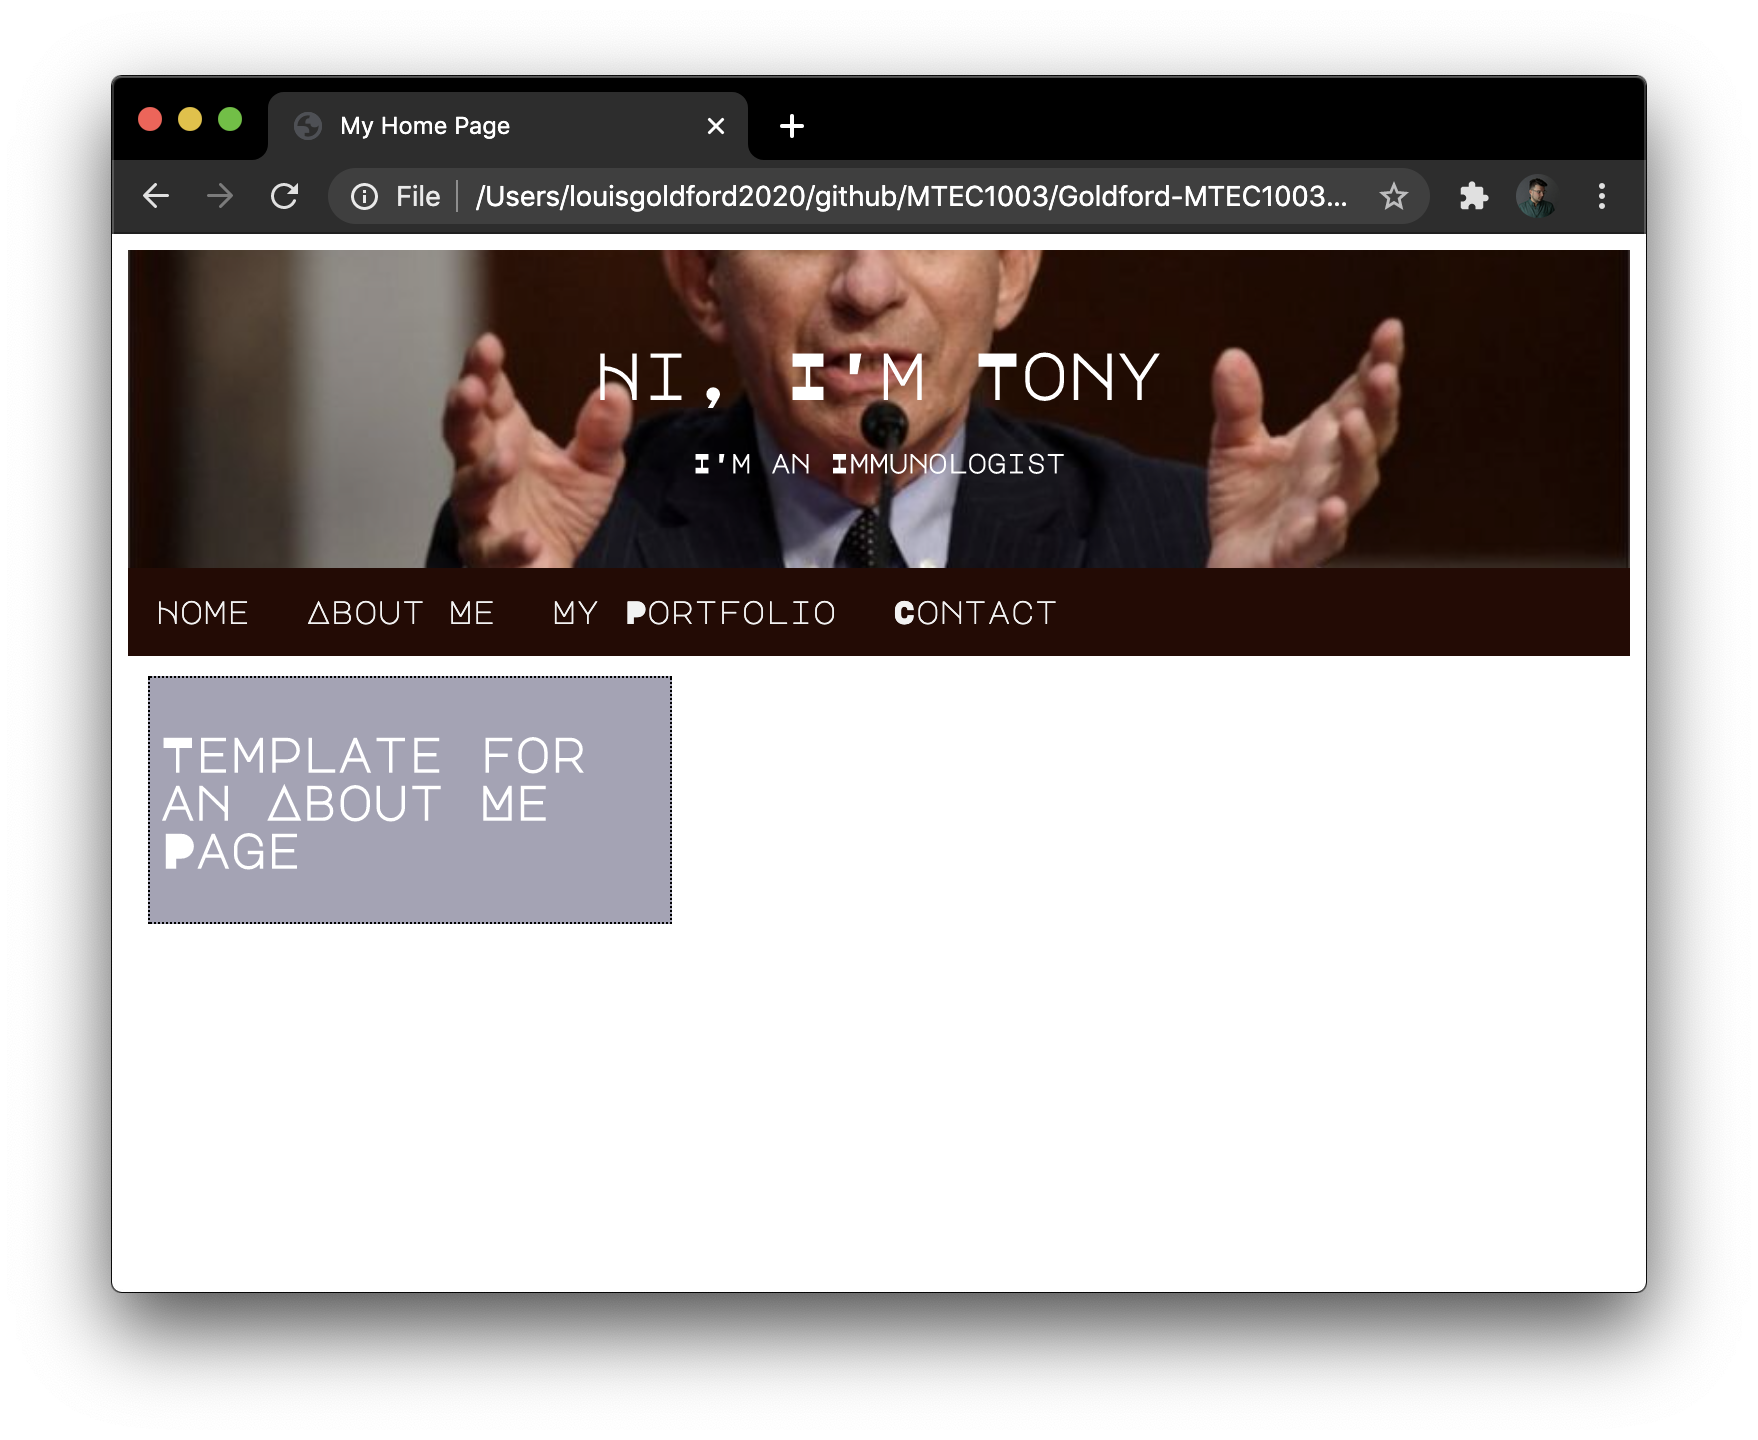
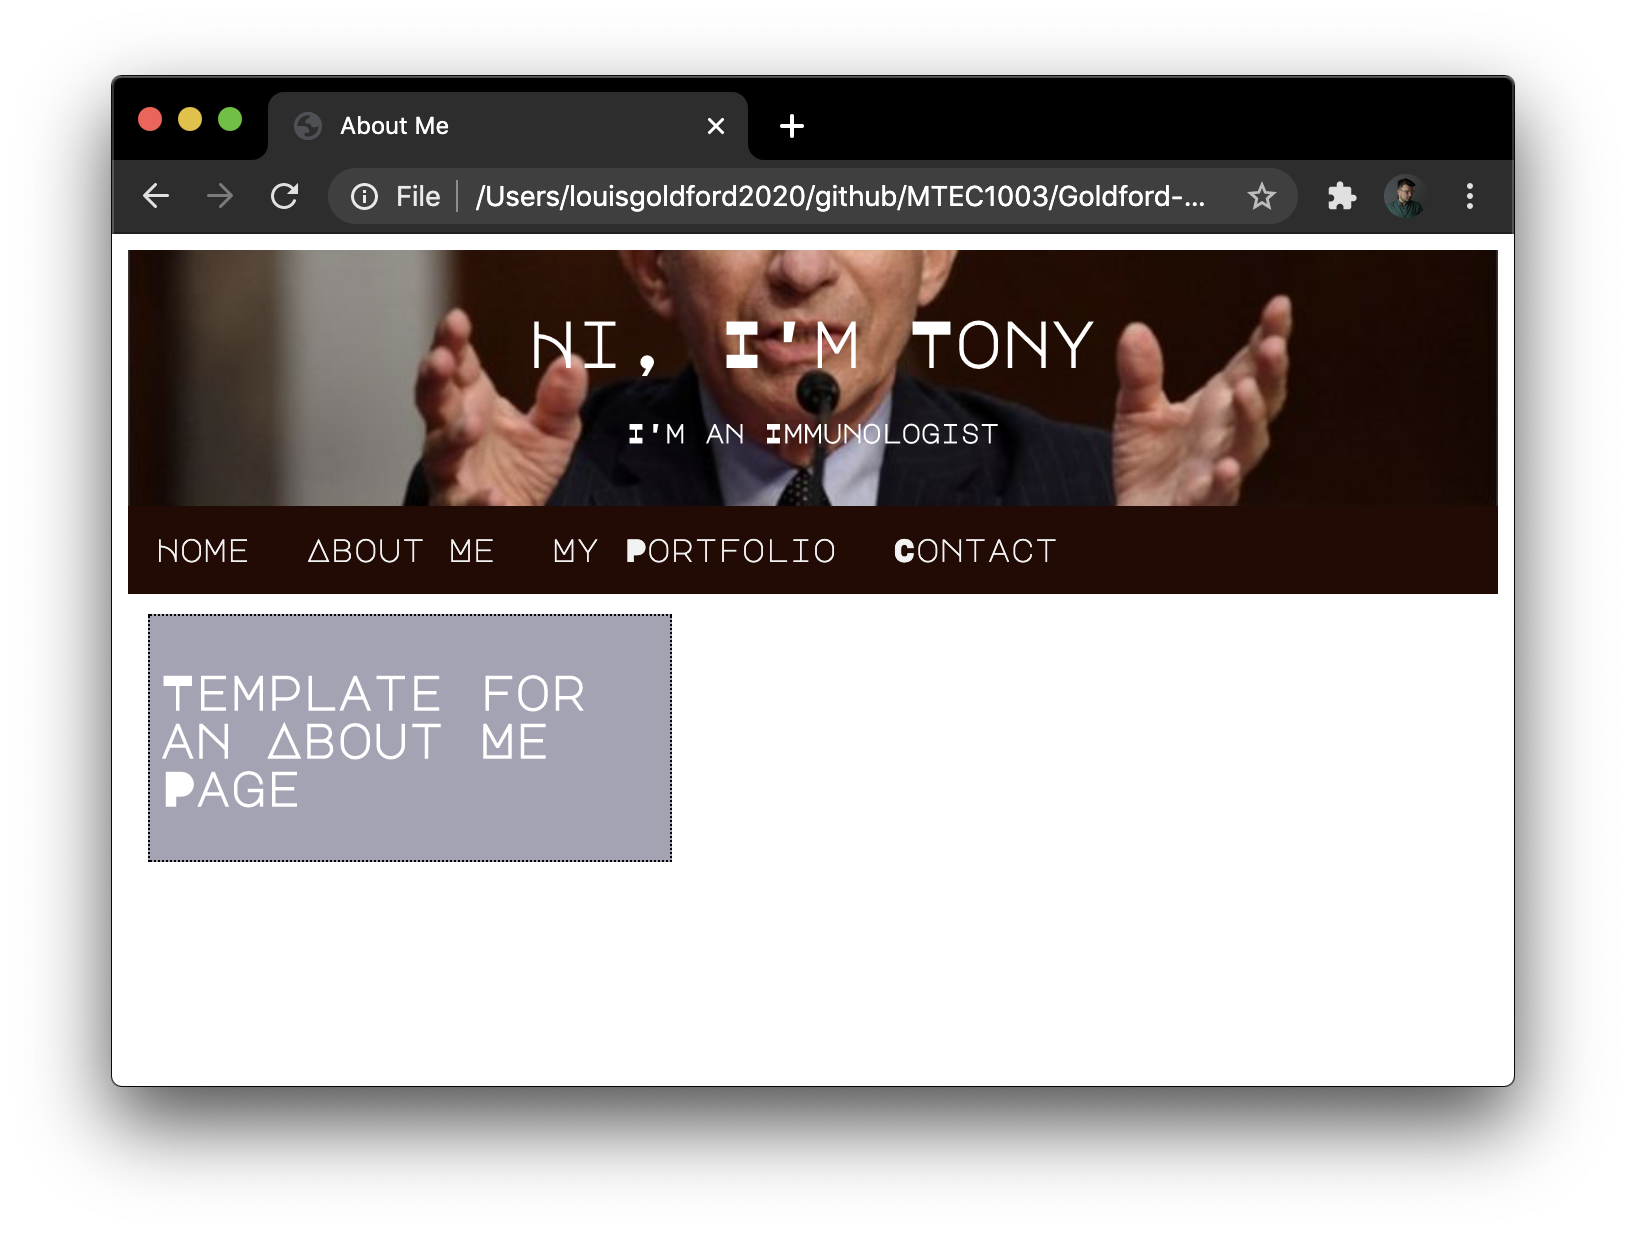
building lab 14 / part 2...

Changed region(s): [[0.0615, 0.0308, 0.9533, 0.9546]]

diff --git a/labs/14/lab-14-part2-web-design.md b/labs/14/lab-14-part2-web-design.md
@@ -702,14 +702,18 @@ Now, delete the news article contained in that first div. This should be approxi
 
 In place of this news article, enter some dummy text to identify your "About Me" page.  
 
-Write in an `<h2>` heading identifying the page. Your entire "About Me" page can simply look like this:    
+Write in an `<h2>` heading identifying the page.  
+
+Then, change the HTML document title on line 5 from "My Home Page" to "About Me".  
+
+Your entire "About Me" page can simply look like this:    
 
 {% highlight html linenos %}
 <!DOCTYPE html>
 <html>
   <head>
     <meta charset="utf-8">
-    <title>My Home Page</title>
+    <title>About Me</title>
     <link rel="stylesheet" href="style.css">
     <link rel="preconnect" href="https://fonts.gstatic.com">
     <link href="https://fonts.googleapis.com/css2?family=Dosis:wght@200;300;400&family=Major+Mono+Display&display=swap" rel="stylesheet">
@@ -751,7 +755,21 @@ Just make sure the file names for each page exactly match <a href="#navinglinks"
 
 <span style="color:red">_**NOTE ABOUT YOUR FINAL ASSIGNMENT: Your final project (i.e. personal website) can use this same navbar and linked pages template. Save new copies of these files and place them into your own repository. Change the color schemes, photos, and contents to match your own desired personal website elements. Add adimnation and/or JS canvas drawing, your own biography text, your own portfolio items (e.g. photos and videos of your own projects), styling rules, contact information, etc. Use this website as a template — don't start over from scratch, which will take far more time! And of course, be sure to how your own site on GitHub pages according to the lessons learned in Lab 14 / Part 2.**_</span>
 
-Make sure your 2 files are all included in your **/lab-14-part2-site** repo, and don't forget to **add**, **commit**, and **push** your changes!
+* * *
+
+At the end of this lab, your **/lab-14-part2-site** should contain the following 7 files:  
+1. **index.html**  
+2. **style.css**  
+3. **fauci.v01.jpg**  
+4. **navbar.v01.js**  
+5. **aboutme.html**  
+6. **myportfolio.html**  
+7. **contact.html**  
+
+
+Make sure your files are all included in your **/lab-14-part2-site** repo, and don't forget to **add**, **commit**, and **push** your changes!
+
+
 
 **Optional Challenge:** Use the knowledge you gained in Lab 14 / Part 1 to host this website on _GitHub_ pages!  
 
